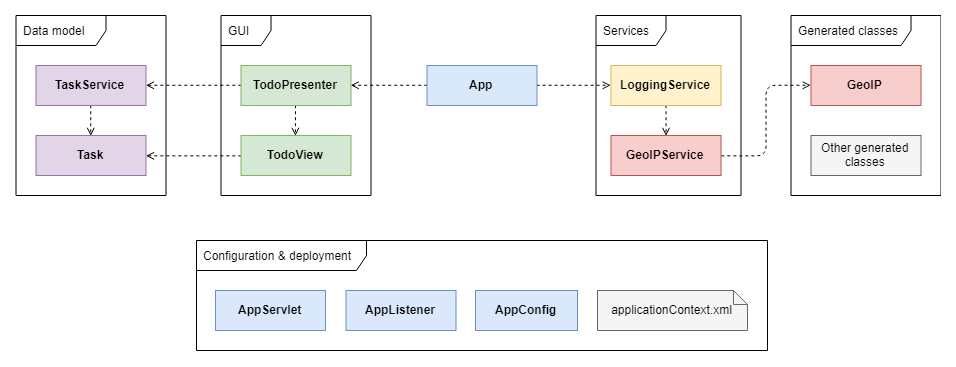
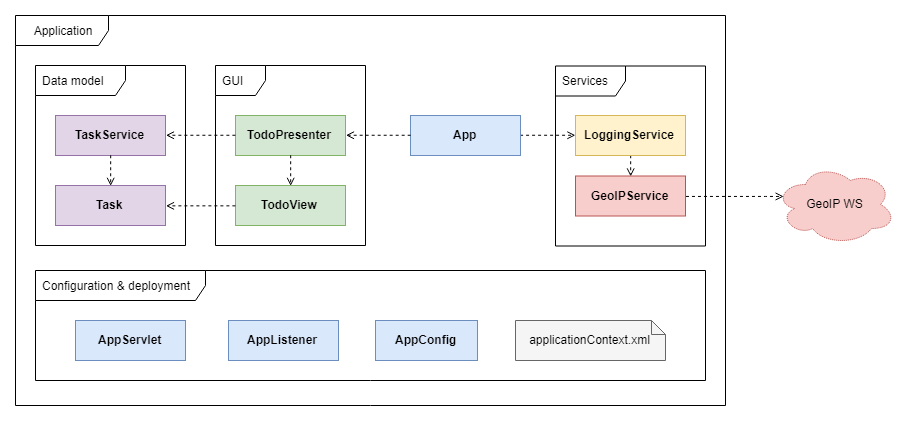
added application overview to readme

diff --git a/README.md b/README.md
@@ -1,4 +1,4 @@
-# ToDo - a Vaadin-Spring sample application
+# ToDo – a Vaadin-Spring sample application
 
 This app demonstrates the use of two major Java frameworks, Vaadin and Spring,
 seamlessly together.
@@ -6,6 +6,16 @@ seamlessly together.
 ## Architecture overview
 
 ![Architecture diagram](https://raw.githubusercontent.com/kapoun/vaadin-todo/master/src/site/resources/todo-architecture.png)
+
+The application follows the Model-View-Presenter pattern. Data model is
+represented by two classes – Task, which holds data of a task, and TaskService,
+which acts as a task repository. There is only one View-Presenter pair, TaskView
+and TaskPresenter.
+
+To demonstrate the use of Spring Web Services library, the application
+implements one more feature – the IP address of a user is looked up in GeoIP
+database and the user's country is logged into standard output. Logging is
+provided by LoggingService, GeoIP lookup by GeoIPService.
 
 ## Running the application
 
